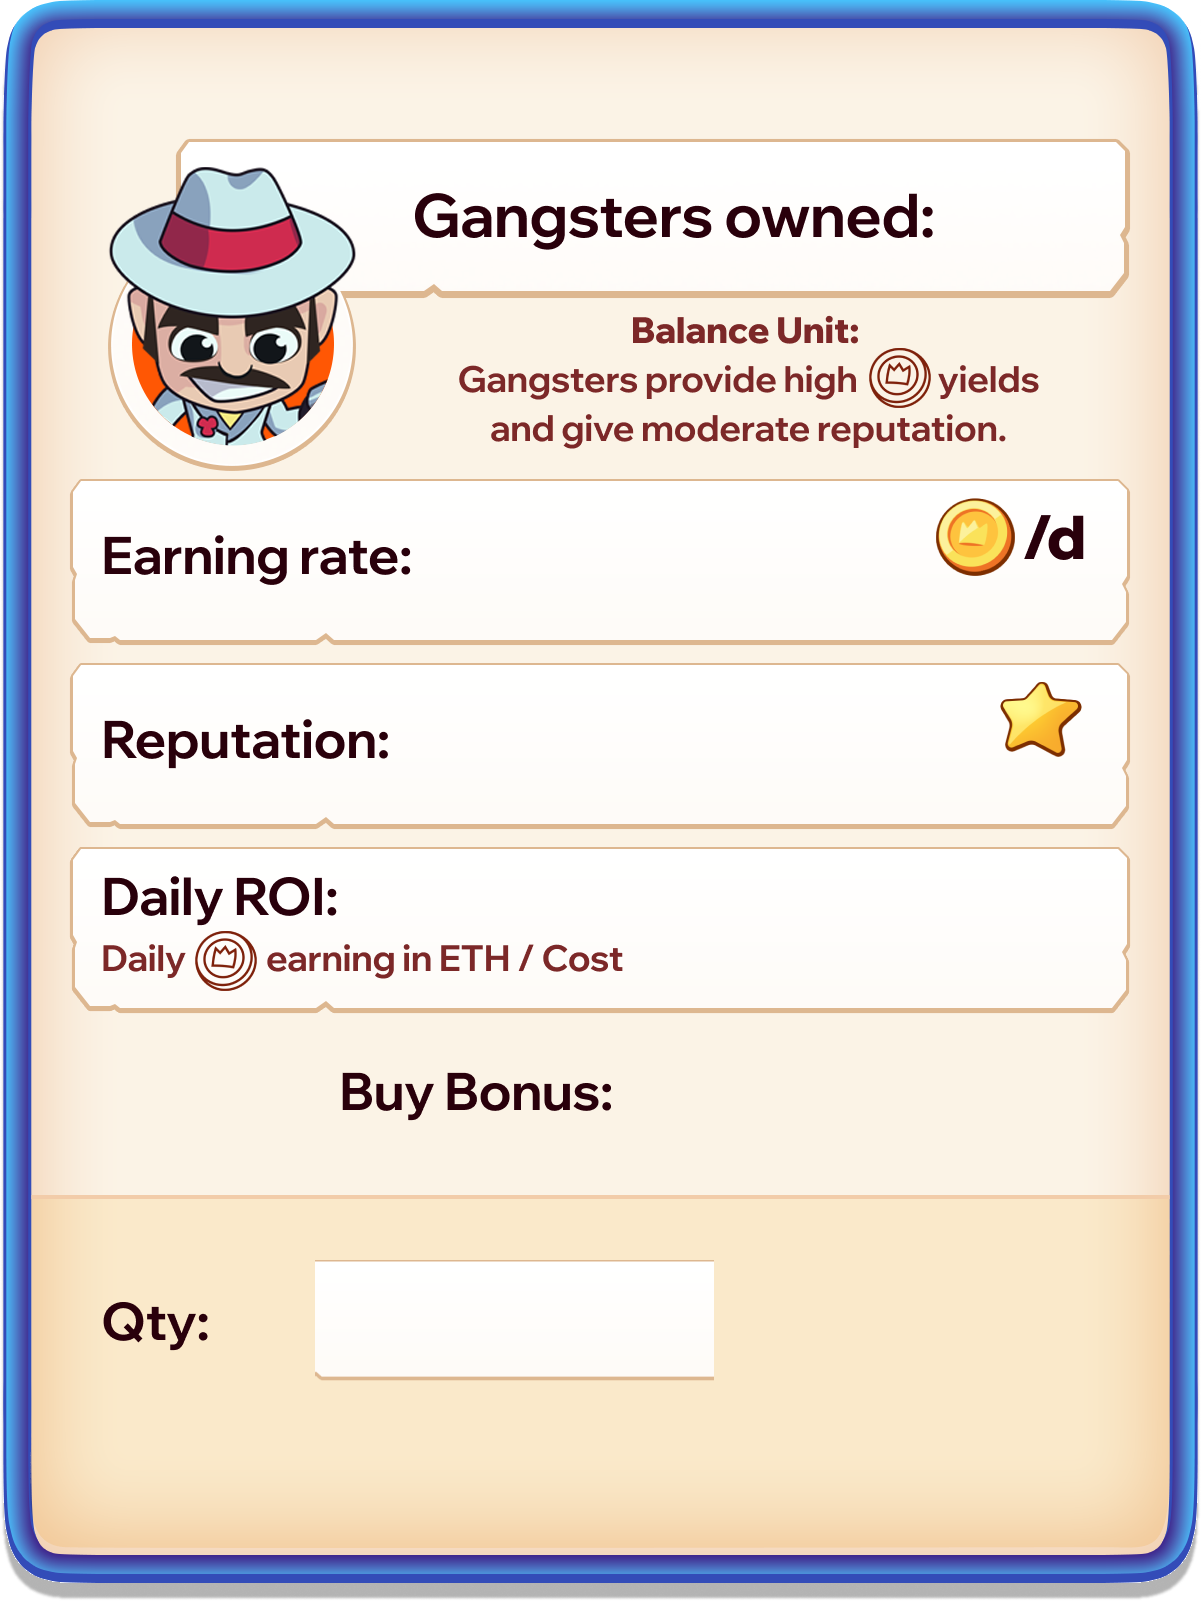
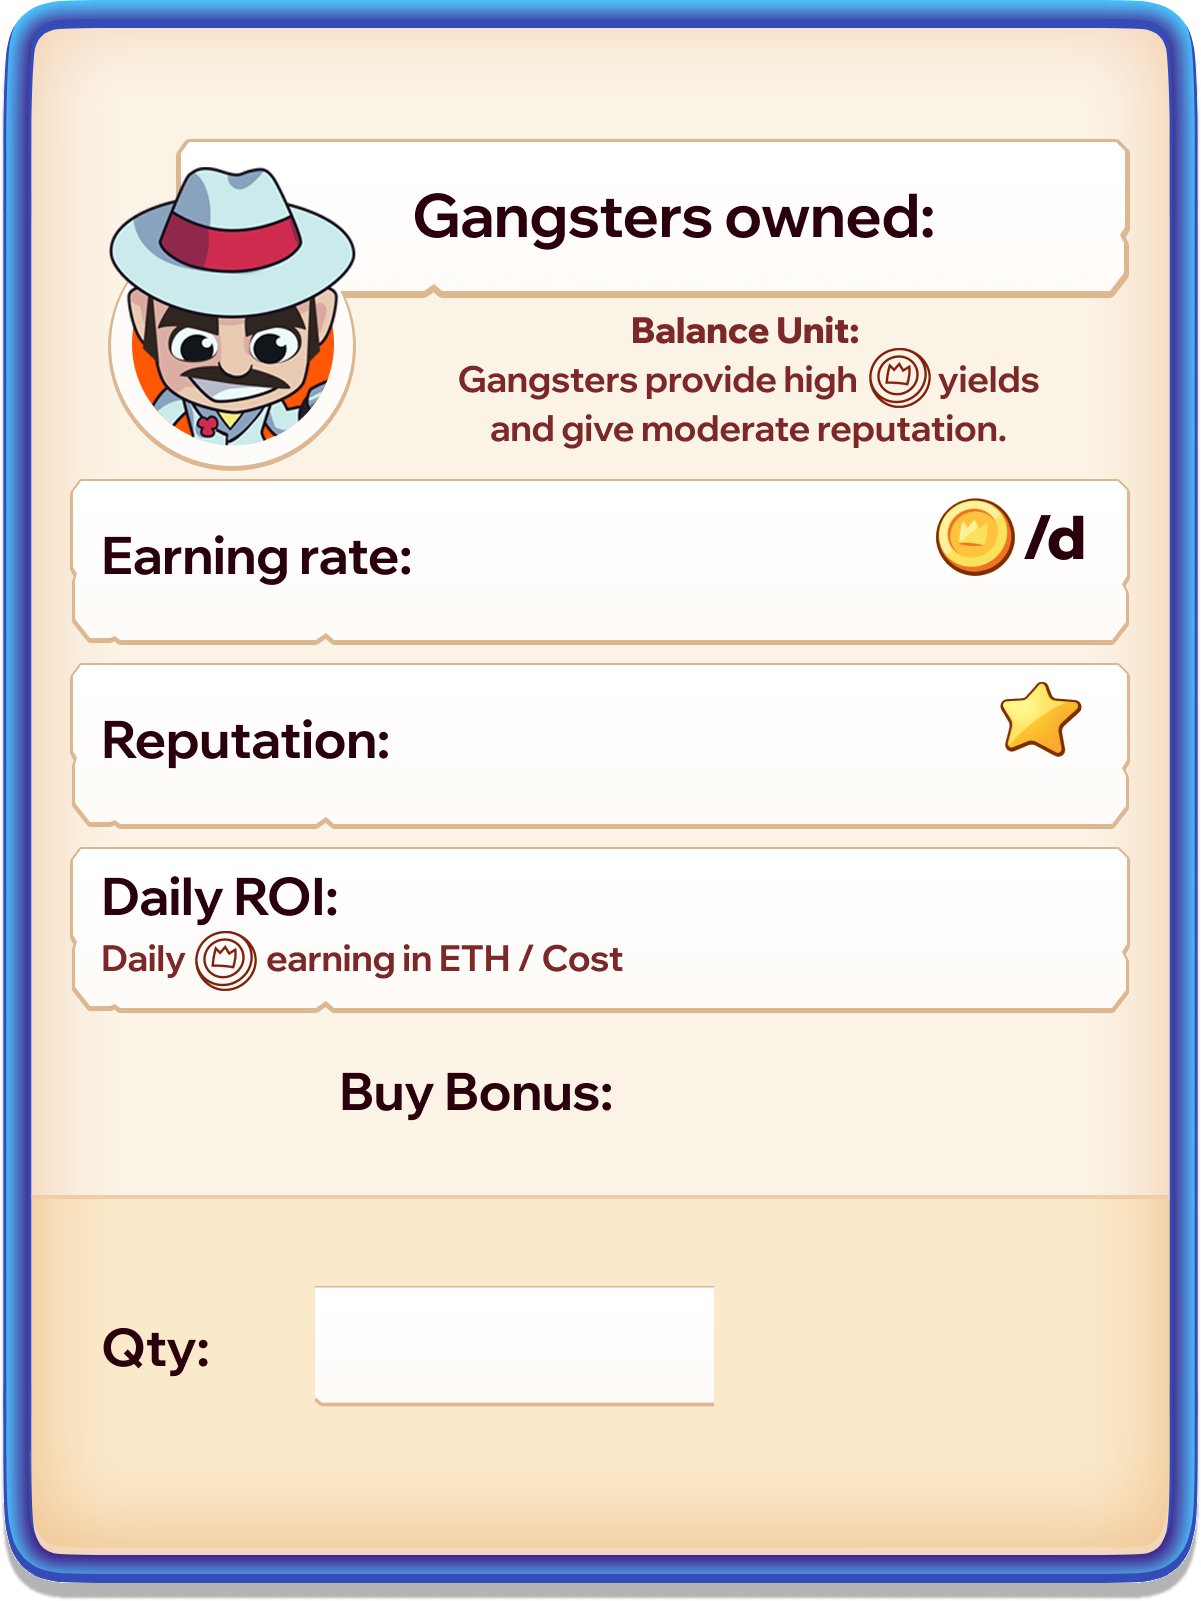
chore: display different prices for mintWL & mintReferral

Changed region(s): [[0.2465, 0.8432, 0.6162, 0.8745], [0.2465, 0.7808, 0.6162, 0.812], [0.0616, 0.812, 0.1848, 0.8745]]

diff --git a/app/src/pages/Game/components/popup/PopupBuyGangster.js b/app/src/pages/Game/components/popup/PopupBuyGangster.js
@@ -125,7 +125,7 @@ class PopupBuyGangster extends Popup {
       .setOrigin(0, 0.5);
     this.add(this.bonusCoin);
 
-    const counterY = this.popup.y + this.popup.height / 2 - 280;
+    const counterY = this.popup.y + this.popup.height / 2 - 260;
     const minusBtnX = this.popup.x - this.popup.width / 2 + 310;
     this.minusBtn = new TextButton(
       scene,
@@ -207,11 +207,30 @@ class PopupBuyGangster extends Popup {
     this.quantityText.setOrigin(0.5, 0.5);
     this.add(this.quantityText);
 
-    const priceTextX = this.popup.x + 160;
-    this.priceText = scene.add.text(priceTextX, counterY, '0', largeBlackExtraBold).setOrigin(0, 0.5);
+    this.priceTextX = this.popup.x + 160;
+    this.priceText = scene.add.text(this.priceTextX, counterY, '0', largeBlackExtraBold).setOrigin(0, 0.5);
     this.add(this.priceText);
+
+    // WL & referral mint
+    this.alternativePrice = scene.add.text(this.priceTextX, counterY - 110, '0', largeBlackExtraBold).setVisible(false);
+    this.priceStrikethrough = scene.add
+      .rectangle(this.priceTextX + 20, counterY, this.priceText.width, 5, 0x29000b)
+      .setVisible(false);
+    this.add(this.alternativePrice);
+    this.add(this.priceStrikethrough);
+    this.whitelistNote = scene.add
+      .text(this.priceTextX, counterY, '(WL)', {
+        fontSize: fontSizes.small,
+        color: colors.black,
+        fontFamily: fontFamilies.bold,
+        align: 'center',
+      })
+      .setOrigin(0.5, -1)
+      .setVisible(false);
+    this.add(this.whitelistNote);
+
     this.insufficientBalance = scene.add
-      .text(priceTextX, counterY, 'Insufficient ETH', {
+      .text(this.priceTextX, counterY, 'Insufficient ETH', {
         fontSize: fontSizes.small,
         color: colors.black,
         fontFamily: fontFamilies.bold,
@@ -294,9 +313,17 @@ class PopupBuyGangster extends Popup {
     this.roiText.text = `${roi}%`;
     this.bonusText.text = `${formatter.format(bonus)}`;
     this.bonusCoin.x = this.bonusText.x + this.bonusText.width + 20;
-    this.priceText.text = `${formatter.format(estimatedPrice)}`;
+    this.priceText.text = `${formatter.format(this.quantity * this.basePrice)}`;
+    const referralDiscount = this.mintFunction === 'mintReferral' ? ` (-${this.referralDiscount * 100}%)` : '';
+    this.alternativePrice.text = `${formatter.format(estimatedPrice)}${referralDiscount}`;
+    this.priceStrikethrough.width = this.priceText.width;
     this.coin.x = this.priceText.x + this.priceText.width + 20;
+    this.whitelistNote.x = this.priceTextX + this.priceText.width / 2;
 
+    const hasDifferentPrice = this.mintFunction !== 'mint';
+    this.whitelistNote.setVisible(this.mintFunction === 'mintWL');
+    this.alternativePrice.setVisible(hasDifferentPrice);
+    this.priceStrikethrough.setVisible(hasDifferentPrice);
     this.insufficientBalance.setVisible(this.quantity > this.estimatedMaxPurchase);
     this.upgradeBtn.setDisabledState(this.scene.isGameEnded || this.quantity > this.estimatedMaxPurchase);
   }
